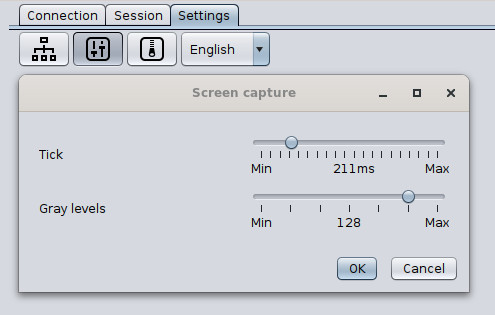
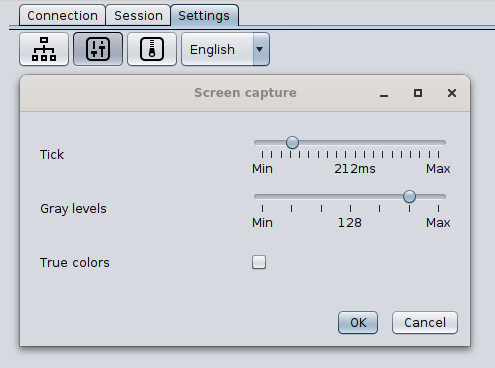
Update docu

diff --git a/docs/fr_settings.html b/docs/fr_settings.html
@@ -62,6 +62,8 @@
         Cette forme vous permet de configurer la façon dont l'écran est <strong>capturé</strong> ; vous pouvez configurer
         l'interval de temps (en milliseconde) entre deux captures (aka. tic-tac) ainsi que le nombre de niveaux de gris.
         Moins de niveaux veut dire moins d'information à transmettre sur le réseau (au détriment de la qualité des images).
+        À partir de Dayon ! 15, les couleurs sRGB peuvent également être utilisées comme alternative. Dans ce cas, le nombre de niveaux de gris est ignoré.
+        Veuillez noter que l'utilisation des "Couleurs réelles" consomme plus de bande passante et plus de RAM du côté de l'<em>assisté</em>.
       </p>
 
       <p>

diff --git a/docs/de_settings.html b/docs/de_settings.html
@@ -61,6 +61,8 @@
         Hier kann der <em>Assistent</em> definieren, wie der Bildschirm des <em>Assistierten</em>
         <strong>erfasst</strong> werden soll; Es kann sowohl der Intervall (in Millisekunden) zwischen
         zwei Aufnahmen (Tick), als auch die Anzahl Graustufen definiert werden.
+        Beginnend mit Dayon! 15, können alternativ auch sRGB-Farben verwendet werden. In diesem Fall wird die Anzahl der Graustufen ignoriert.
+        Bitte beachten Sie, dass bei der Verwendung von "Farben" mehr Bandbreite und RAM auf der <em>Assistierten</em> Seite verbraucht wird.
       </p>
 
       <p>

diff --git a/docs/sv_settings.html b/docs/sv_settings.html
@@ -59,6 +59,8 @@
 
       <p>
         Använd formuläret för att ange hur <em>hjälptagarens</em> skärm blir <strong>avläst</strong>; du kan anpassa (i millisekunder) tiden mellan två avläsningar (eller "tick") liksom antal gråskalor i bilden.
+        Från och med Dayon! 15 kan sRGB-färger också användas som ett alternativ. I detta fall ignoreras antalet gråtoner.
+        Observera att användningen av "Sanna färger" förbrukar mer bandbredd och mer RAM på <em>hjälpgivare</em>-sidan.
       </p>
 
       <p>

diff --git a/docs/settings.html b/docs/settings.html
@@ -60,6 +60,8 @@
       <p>
         Use that form to set up how the <em>assisted</em> screen is going to be <strong>captured</strong>; you can
         configure the time (in milliseconds) between two captures (aka. tick) as well as the number of gray levels.
+        Starting with Dayon! 15, also sRGB colors can be used. In that case, the number of gray levels are ignored.
+        Please note that the use of "True colors" consumes more bandwidth and uses more RAM on the <em>assisted</em> side.
       </p>
 
       <p>

diff --git a/docs/zh_settings.html b/docs/zh_settings.html
@@ -59,6 +59,8 @@
 
       <p>
         &nbsp; &nbsp; 使用这个表单来设置屏幕捕获；您可以配置两次<strong> 屏幕捕获 </strong>（又名时钟滴答，即tick）之间的时间（以毫秒为单位）和灰度级数。
+          从 Dayon 开始！15 开始，也可以使用 sRGB 颜色作为替代。在这种情况下，灰度级数将被忽略。
+          请注意，使用 "真面目" 会在 <em>Assisted - 用户端</em> 端消耗更多带宽和内存。
       </p>
 
       <p>
